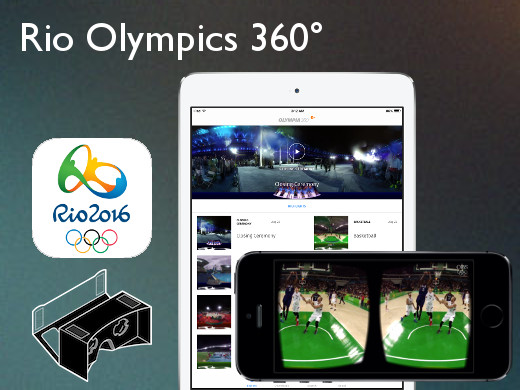
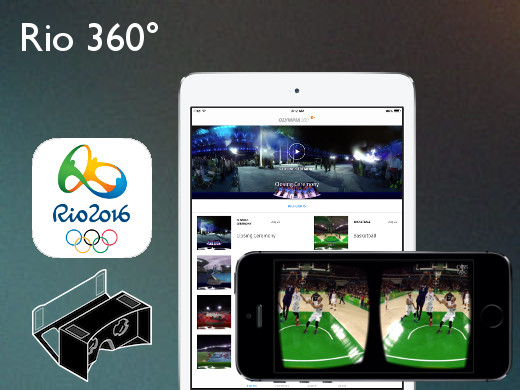
changed Rio app title

Changed region(s): [[0.1538, 0.0615, 0.4615, 0.1538], [0.4923, 0.0615, 0.6154, 0.1538]]

diff --git a/apps/rio360.html b/apps/rio360.html
@@ -4,7 +4,7 @@
 							<article id="rio360" class="panel">
 								<header>
 									<img src="images/icon_rio360.png" alt="Rio 360"><br>
-									<h2>Rio Olympics 360°</h2>
+									<h2>Rio 360°</h2>
 								</header>
 								<section>
 									<div class="row">
